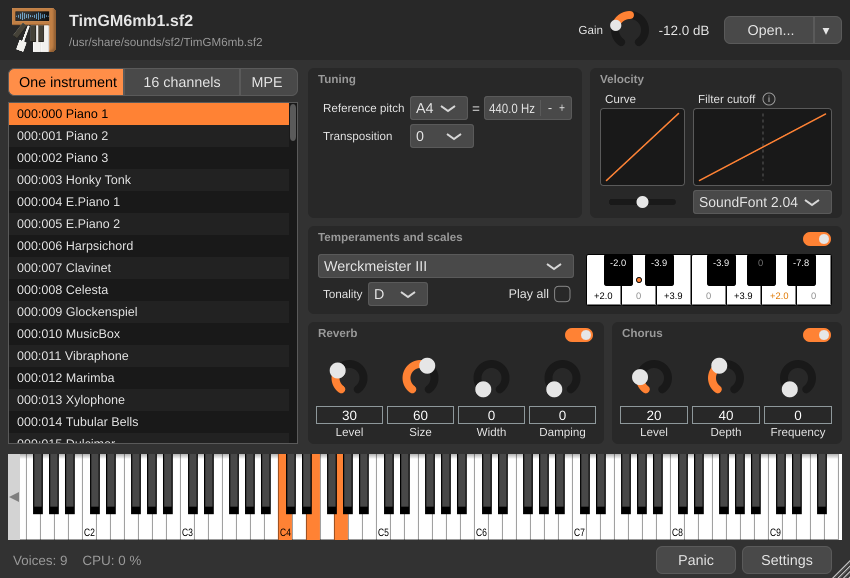
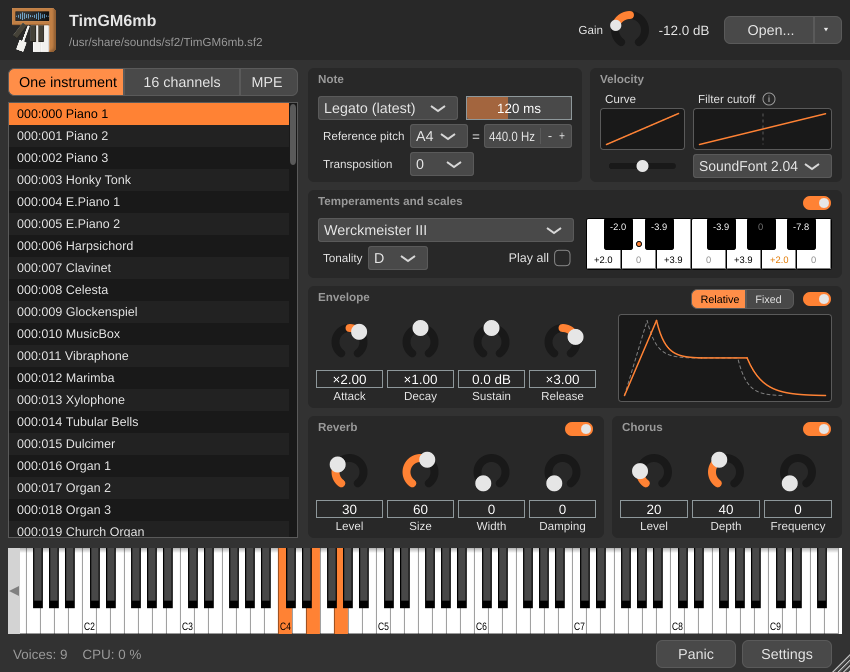
README

diff --git a/README.md b/README.md
@@ -48,26 +48,26 @@ The [Polyphone plugin](#polyphone-plugin) then plays them in your DAW with the s
 - Sample editor: waveform with loop points, stereo editing, frequency analysis estimating the pitch and the tuning, 10-band equalizer.
 - Graphical editors for key and velocity ranges and for envelopes, with points that can be dragged with the mouse.
 - Timbre view of the instruments: the level of each harmonic heard on every key, revealing the breaks between samples, with corrections of the timbre or the level, computed notes and the removal of redundant samples.
-- Modulator editor, undo / redo, and a search field to find any sample, instrument or preset.
+- Modulator editor, also for the default modulators of a soundfont (DMOD chunk, also read by FluidSynth 2.5 and SpessaSynth), undo / redo, and a search field to find any sample, instrument or preset.
 
 ### Tools
 
 More than 30 tools automate the repetitive work, for example:
 
-- automatic loop of samples, cross-fade around the loop points, trimming of the blank at the start and of the end after the loop;
+- automatic loop of samples, cross-fade around the loop points, trimming of the silence at the start and at the end of the samples or after their loop;
 - creation of the missing samples of an instrument from the closest ones;
 - automatic positioning of the samples on the keyboard, transposition, detuning for celeste effects;
 - creation of chords, organ mixtures and natural releases;
 - volume, balance, attenuation, filtering and sound spatialization of many divisions at once;
-- conversion of stereo samples to mono, merge of samples note by note, removal of unused elements, editing of samples in an external program.
+- conversion of stereo samples to mono, merge of samples note by note, removal of unused elements and duplicate samples, editing of samples in an external program.
 
 ### Playing
 
 - Built-in synthesizer with reverb and chorus, played with the virtual keyboard, a MIDI keyboard or the computer keyboard.
-- Tuning: reference pitch, transposition, and more than 200 historical temperaments and scales in any key or your own tuning note by note, also changed by MIDI messages.
+- Tuning: reference pitch, transposition, and more than 200 temperaments and scales (historical temperaments, Western scales and scales of other musical traditions) in any key, or your own tuning note by note, also changed by MIDI messages.
 - Player mode turning Polyphone into a synthesizer that can play several instruments or presets at once.
 - MIDI file player: play a MIDI file with the open soundfonts, choose the soundfont and the preset of each channel, mute or solo channels, change the tempo and the pitch, and export the result to a wav file.
-- Recorder saving what you play to a wav file.
+- Recorder saving what Polyphone plays or the audio input to a wav file, or what you play to a MIDI file, able to start with the first sound and stop after a silence.
 - Audio output through the system, JACK or ASIO.
 
 ### Finding soundfonts
@@ -121,7 +121,7 @@ More than 30 tools automate the repetitive work, for example:
 ## Polyphone plugin
 
 <p align="center">
-  <img src="screenshots/Plugin.png" alt="Polyphone plugin: the instruments of a soundfont, the tuning, the velocity, a temperament, the reverb, the chorus and a keyboard" width="700">
+  <img src="screenshots/Plugin.png" alt="Polyphone plugin: the instruments of a soundfont, the play mode, the tuning, the velocity, a temperament, the envelope, the reverb, the chorus and a keyboard" width="700">
 </p>
 
 The Polyphone plugin plays soundfonts in DAWs and in any other host of VST3, CLAP, LV2 or AU (macOS) plugins.
@@ -131,9 +131,11 @@ The plugin only plays soundfonts: they are created and edited with Polyphone, th
 - Opens sf2, sf3, sfz and dls files with a button, from the recent files or by dropping them on the window. A soundfont can be played as soon as it is opened, even a large one: its samples are loaded in the background, those of the instruments chosen and of the notes played first.
 - Three playing modes: one instrument on the 16 MIDI channels; one instrument per channel, chosen in the plugin or by program changes like a General MIDI synthesizer (handy for MIDI files); or one instrument played by an MPE controller.
 - Separate outputs for each MIDI channel and for the effects, to mix them on different tracks.
+- Play mode: poly, mono or legato with an adjustable glide, the latest, highest or lowest key held being heard.
+- Envelope: the attack, decay, sustain and release of the instruments (drums excepted) lengthened or shortened (relative mode) or replaced (fixed mode), without changing the soundfont.
 - Tuning: reference pitch, transposition, and the temperaments and scales of Polyphone in any key or your own tuning note by note.
 - Velocity: a curve for a softer or harder touch, and the velocity-to-filter modulator of SoundFont 2.04, of SoundFont 2.01 (for older soundfonts) or none.
-- Gain, reverb and chorus. The host can automate them, as well as the transposition, the reference pitch, the temperament and the velocity settings.
+- Gain, reverb and chorus. The host can automate them, as well as the play mode, the envelope, the transposition, the reference pitch, the temperament and the velocity settings.
 - The soundfont can be stored in the project, which then opens on another computer without the file.
 - A soundfont used by several tracks is loaded in memory only once, and once loaded, nothing is read from the disk while playing.
 - Low latency when playing live, or notes starting exactly at the position of their MIDI message whatever the buffer size (offline, or with a fixed latency); offline rendering is never limited by the processor.
